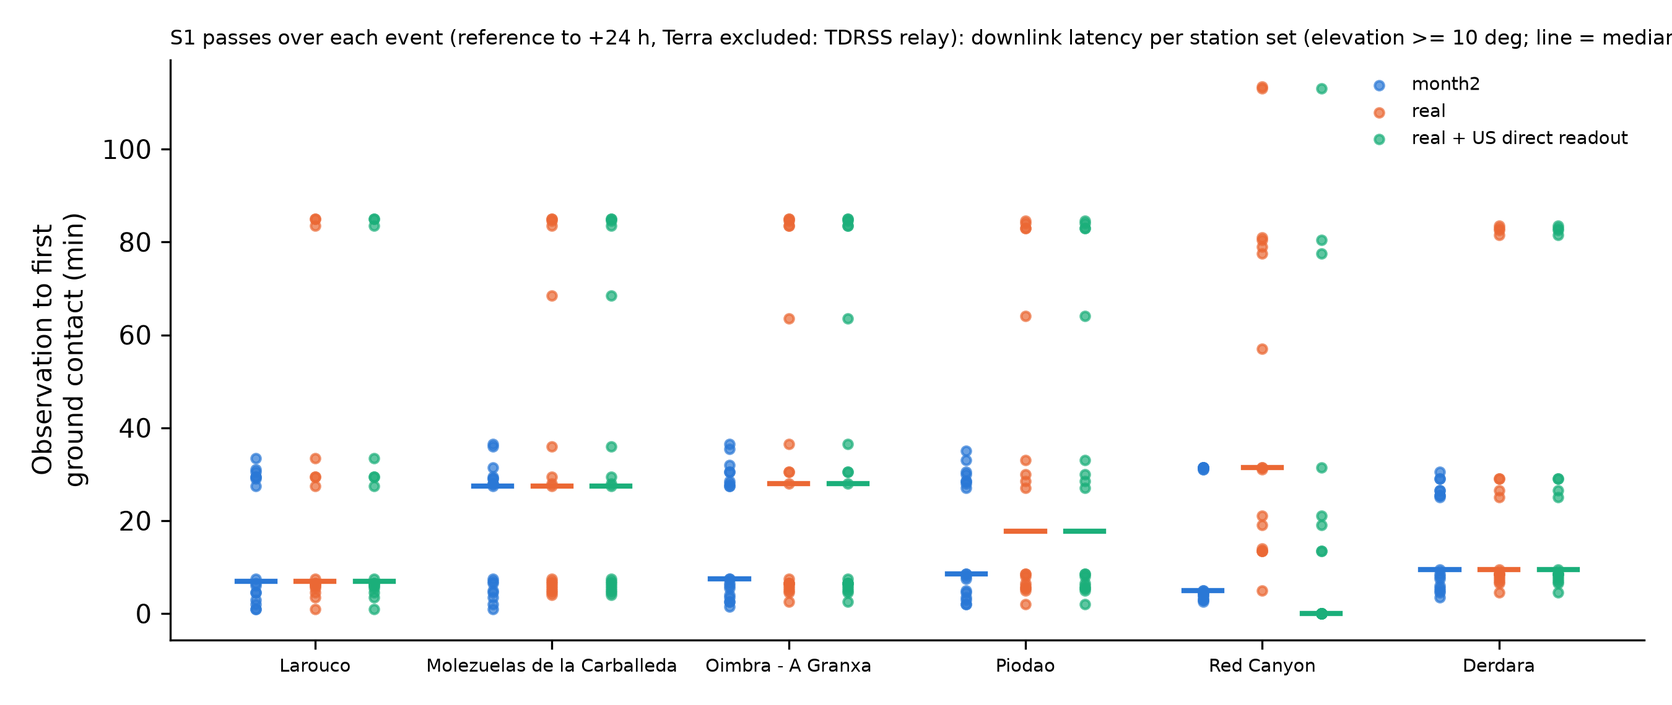
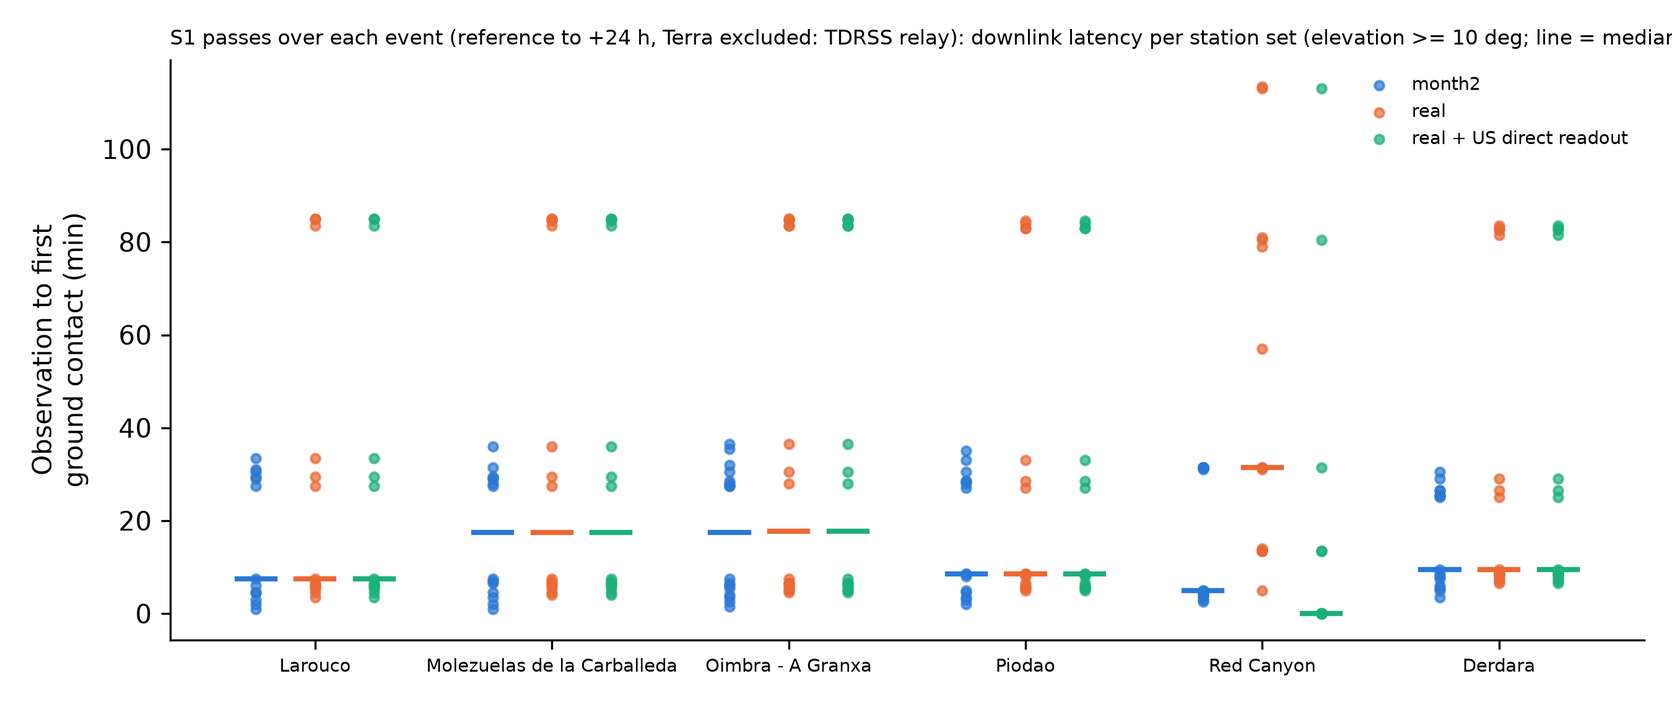
Restrict S1 to satellites with openly available near-real-time fire data and move FY-3D to S3
- S1 now contains only the satellites whose global fire product was openly
  available in near real time during the events (Suomi NPP, NOAA-20/21,
  Terra, Aqua, Sentinel-3A/B), so S1 against S0 shows how fast the fire
  could have been detected with open data. S1 has 7 satellites, S3 has 15.
- FY-3D moved to the S3 rows of the census table: its fire product needs an
  NSMC account and is not open in near real time. S3 notes its afternoon
  pass at about 15:10.
- Baseline ground-segment table without FY-3D; median wait to first contact
  with the real segments is now 25 min.
- Remove the FY-3D open question.
- Next steps: add the Sentinel-3 SL_2_FRP fire product to S0 for the six
  events, since Sentinel-3A/B are in S1 but not yet in the public record.
- Regenerate the overpass-time figure with FY-3D in S3.

diff --git a/artifacts/progress-deck/slides/events.html b/artifacts/progress-deck/slides/events.html
@@ -1,20 +1,20 @@
-<section id="events" data-transition="fade" style="display:flex; flex-direction:column; gap:32px; padding:128px; background:#f4f1ea; font-family:'IBM Plex Sans', Arial, sans-serif; color:#1c2430">
-  <div style="display:flex; flex-direction:column; gap:12px">
-    <h2 style="font-size:56px; font-weight:600; line-height:1.1">Six events, chosen by burned area</h2>
-    <p style="font-size:24px; color:#5b6573">Rule: largest official final area; T0 reference = official ignition hour, otherwise the first GEO detection.</p>
+<section id="events" data-transition="fade" style="background:#f4f1ea">
+  <div id="p15689ca52f4er0-8f52a8a3" style="position:absolute; top:128px; left:128px; width:1664px; height:108px; display:flex; flex-direction:column; gap:12px">
+    <h2 style="font-family:'IBM Plex Sans', Arial, sans-serif; font-size:56px; font-weight:600; line-height:1.1; color:#1c2430">Six events, chosen by burned area</h2>
+    <p style="font-family:'IBM Plex Sans', Arial, sans-serif; font-size:24px; color:#5b6573">Rule: largest official final area; T0 reference = official ignition hour, otherwise the first GEO detection.</p>
   </div>
-  <div style="display:flex; flex-direction:row; gap:40px">
-    <table style="width:980px; font-size:24px; color:#1c2430; background:#fbfaf6">
-      <tr style="background:#16263d"><th style="width:36%; color:#f4f1ea">Event</th><th style="width:30%; color:#f4f1ea">Reference (UTC)</th><th style="width:16%; color:#f4f1ea">Area (ha)</th><th style="width:18%; color:#f4f1ea">First FIRMS</th></tr>
-      <tr><td>Pi&#243;d&#227;o (PT)</td><td>13 Aug 04:08 (press)</td><td>65,417</td><td>+6.5 h</td></tr>
+  <div id="p15689ca52f4er1-8f52a8a3" style="position:absolute; top:267px; left:128px; width:1664px; height:434px; display:flex; flex-direction:row; gap:40px">
+    <table style="width:980px; font-family:'IBM Plex Sans', Arial, sans-serif; font-size:24px; color:#1c2430; background:#fbfaf6">
+      <tr style="background:#16263d"><th style="width:36%; color:#f4f1ea">Event</th><th style="width:30%; color:#f4f1ea">Reference (UTC)</th><th style="width:16%; color:#f4f1ea">Burned Area (ha)</th><th style="width:18%; color:#f4f1ea">First FIRMS</th></tr>
+      <tr><td>Piódão (PT)</td><td>13 Aug 04:08 (press)</td><td>65,417</td><td>+6.5 h</td></tr>
       <tr><td>Larouco (ES)</td><td>13 Aug 16:55</td><td>37,765</td><td>+4.8 h</td></tr>
       <tr><td>Molezuelas (ES)</td><td>10 Aug 12:25</td><td>24,426</td><td>+0.1 h</td></tr>
-      <tr><td>O&#237;mbra (ES)</td><td>12 Aug 12:39</td><td>22,414</td><td>+2.3 h</td></tr>
+      <tr><td>Oímbra (ES)</td><td>12 Aug 12:39</td><td>22,414</td><td>+2.3 h</td></tr>
       <tr><td>Red Canyon (US)</td><td>14 Aug 00:09 (discovery)</td><td>50,468</td><td>+4.2 h</td></tr>
-      <tr><td>Derdara (MA)</td><td>12 Aug (date only)</td><td>&#8776; 500</td><td>+0.2 h</td></tr>
+      <tr><td>Derdara (MA)</td><td>12 Aug (date only)</td><td>≈ 500</td><td>+0.2 h</td></tr>
     </table>
-    <img src="/_blob/448d9e65b74f6ca65338948dd7e03262" alt="World map of fire complexes first detected 9 to 15 August 2025, with the selected events" style="width:644px; height:328px; object-fit:contain; background:#fbfaf6; border-radius:12px">
+    <img src="/_blob/448d9e65b74f6ca65338948dd7e03262" alt="World map of fire complexes first detected 9 to 15 August 2025, with the selected events" style="width:644px; height:328px; background:#fbfaf6; border-radius:12px; object-fit:contain">
   </div>
-  <p style="font-size:24px; color:#5b6573">Excluded: southern hemisphere (austral winter: clearing and prescribed burns); Asia (volcano and gas flares only).</p>
-  <aside>Global FIRMS screen of 8 to 15 August 2025 with five criteria: vegetation fire, onset inside the window, at least 500 ha in FIRMS, spreading fire, northern hemisphere (Asia: Siberia and Far East). Candidates are ranked by official final area, as the two Spanish events were in Month 2; FIRMS area cannot rank them because it misses burning after 15 August. Pi&#243;d&#227;o and Derdara have no official ignition hour, so their T0 reference is the first SEVIRI detection. First FIRMS is the first detection after the reference time. Sources: EGIF, Castilla y Le&#243;n open data, Xunta de Galicia, ICNF, NIFC WFIGS, press for Derdara.</aside>
+  <p id="p15689ca52f4er2-8f52a8a3" style="position:absolute; top:732px; left:128px; width:1664px; font-family:'IBM Plex Sans', Arial, sans-serif; font-size:24px; color:#5b6573">Excluded: southern hemisphere (austral winter: clearing and prescribed burns); Asia (volcano and gas flares only).</p>
+  <aside>Global FIRMS screen of 8 to 15 August 2025 with five criteria: vegetation fire, onset inside the window, at least 500 ha in FIRMS, spreading fire, northern hemisphere (Asia: Siberia and Far East). Candidates are ranked by official final area, as the two Spanish events were in Month 2; FIRMS area cannot rank them because it misses burning after 15 August. Piódão and Derdara have no official ignition hour, so their T0 reference is the first SEVIRI detection. First FIRMS is the first detection after the reference time. Sources: EGIF, Castilla y León open data, Xunta de Galicia, ICNF, NIFC WFIGS, press for Derdara.</aside>
 </section>

diff --git a/artifacts/progress-deck/slides/scenarios.html b/artifacts/progress-deck/slides/scenarios.html
@@ -5,10 +5,10 @@
   </div>
   <table style="font-family:'IBM Plex Sans', Arial, sans-serif; font-size:24px; color:#1c2430; background:#fbfaf6">
     <tr style="background:#16263d"><th style="width:22%; color:#f4f1ea">Scenario</th><th style="width:34%; color:#f4f1ea">Setup</th><th style="width:44%; color:#f4f1ea">Question it answers</th></tr>
-    <tr><td>S0 · Public record</td><td>FIRMS, LSA SAF, EFFIS of the real fires</td><td>How fast was the fire actually detected?</td></tr>
-    <tr><td>S1 · Ground decides</td><td>EO layer (8) + real ground segment</td><td>Does the model reproduce reality (S1 vs S0)?</td></tr>
+    <tr><td>S0 · Public record</td><td>FIRMS, LSA SAF, EFFIS of the real fires</td><td>How fast could the fire have been detected with public data?</td></tr>
+    <tr><td>S1 · Ground decides</td><td>EO layer (7) + real ground segment</td><td>Does the model reproduce reality (S1 vs S0)?</td></tr>
     <tr style="background:#e6efee"><td>S2 · Orbit decides</td><td>S1 + Walker 600/20, central nodes swept</td><td>How many central nodes, and where? (main result)</td></tr>
-    <tr><td>S3 · Public extension</td><td>S2 + extended public layer (14)</td><td>What do all other public sensors add; does the optimum hold?</td></tr>
+    <tr><td>S3 · Public extension</td><td>S2 + extended public layer (15)</td><td>What do all other public sensors add; does the optimum hold?</td></tr>
     <tr style="background:#f1eaf8"><td>S4 · Commercial</td><td>S3 + commercial layer (3)</td><td>What do private satellites add on top?</td></tr>
   </table>
   <div style="display:flex; flex-direction:row; gap:16px">
@@ -16,5 +16,5 @@
     <p style="flex:1; padding:20px 24px; font-family:'IBM Plex Sans', Arial, sans-serif; font-size:24px; color:#f4f1ea; background:#16263d; border-radius:12px"><b>S2 vs S1</b> Value of central nodes</p>
     <p style="flex:1; padding:20px 24px; font-family:'IBM Plex Sans', Arial, sans-serif; font-size:24px; color:#f4f1ea; background:#16263d; border-radius:12px"><b>S3, S4 vs S2</b> Does the answer survive?</p>
   </div>
-  <aside>S0 is not simulated: it is the timing of the public records. S1 uses only satellites with a global public fire product, so S1 against S0 is a clean validation. S2 is the main sweep. The extended public layer (S3) is simulated without validation, with a conservative detectability filter written before running, so any gain it shows is a lower bound; S3 then checks only the S2 optimum and nearby setups, not a full new sweep. S4 is the former S3, the commercial layer. One fixed ground-station set is used in all scenarios.</aside>
+  <aside>S0 is not simulated: it is the timing of the public records. S1 uses only the satellites whose fire data were openly available in near real time, the ones behind the public record, so S1 against S0 is a clean validation. S2 is the main sweep. The extended public layer (S3) is simulated without validation, with a conservative detectability filter written before running, so any gain it shows is a lower bound; S3 then checks only the S2 optimum and nearby setups, not a full new sweep. S4 is the former S3, the commercial layer. One fixed ground-station set is used in all scenarios.</aside>
 </section>

diff --git a/artifacts/progress-deck/slides/eolayer.html b/artifacts/progress-deck/slides/eolayer.html
@@ -5,11 +5,11 @@
   </div>
   <table style="font-size:24px; color:#1c2430; background:#fbfaf6">
     <tr style="background:#16263d"><th style="width:22%; color:#f4f1ea">Layer</th><th style="width:52%; color:#f4f1ea">Satellites (sensor)</th><th style="width:26%; color:#f4f1ea">Validated against S0</th></tr>
-    <tr style="background:#e6efee"><td><b>S1 EO layer</b> (8)</td><td>Suomi NPP, NOAA-20/21 (VIIRS); Terra, Aqua (MODIS); Sentinel-3A/B (SLSTR); FY-3D (MERSI-II)</td><td style="color:#1f6f6b">Yes: global public fire product</td></tr>
-    <tr><td><b>S3 extended public</b> (14)</td><td>FY-3E/3F, Metop-B/C, Meteor-M 2-3/2-4, Kanopus-V-IK, HJ-2A/B (thermal); Landsat 8/9, Sentinel-2A/B/C (high-res SWIR)</td><td style="color:#a8431a">No: simulated only</td></tr>
+    <tr style="background:#e6efee"><td><b>S1 EO layer</b> (7)</td><td>Suomi NPP, NOAA-20/21 (VIIRS); Terra, Aqua (MODIS); Sentinel-3A/B (SLSTR)</td><td style="color:#1f6f6b">Yes: open near-real-time fire data</td></tr>
+    <tr><td><b>S3 extended public</b> (15)</td><td>FY-3D/3E/3F, Metop-B/C, Meteor-M 2-3/2-4, Kanopus-V-IK, HJ-2A/B (thermal); Landsat 8/9, Sentinel-2A/B/C (high-res SWIR)</td><td style="color:#a8431a">No: simulated only</td></tr>
     <tr style="background:#f1eaf8"><td><b>S4 commercial</b> (3)</td><td>OroraTech FOREST-2, FOREST-3; FireSat protoflight</td><td style="color:#a8431a">No public data</td></tr>
     <tr style="background:#ebe8e1"><td>GEO / HEO (15)</td><td>GOES-18/19, Himawari-9, Meteosat-9 to 12, GK-2A, FY-4A/B, INSAT-3DR/3DS, Elektro-L, Arktika-M</td><td style="color:#5b6573">Census only: S0 alert, T0 reference</td></tr>
   </table>
   <p style="font-size:24px; color:#5b6573">Excluded: no MWIR band (CBERS-4, ECOSTRESS, LWIR-only constellr and Hydrosat); not operational (NOAA-15/18/19, Meteor-M 2-2); commissioning (8 OroraTech OTC-P1).</p>
-  <aside>Public means government or intergovernmental mission; private satellites form the commercial layer. Fire-capable means a MWIR fire band, or high-resolution SWIR with an active-fire method. A public fire product only decides validation, not membership: S1 keeps the satellites that can be checked against the public record, so S1 against S0 stays clean. FY-3D joins S1 because a public global fire product exists; its August 2025 data need an NSMC account (requested). Data access differs: open for Landsat, Sentinel-2 and Metop; registration for FY-3; restricted for HJ-2 and Kanopus-V-IK.</aside>
+  <aside>Public means government or intergovernmental mission; private satellites form the commercial layer. Fire-capable means a MWIR fire band, or high-resolution SWIR with an active-fire method. S1 keeps only the satellites whose fire data were openly available in near real time during the events (FIRMS, Copernicus SL_2_FRP): the satellites behind the public record, so S1 against S0 shows how fast the fire could have been detected with open data. FY-3D has a global fire product, but it needs an NSMC account and is not open in near real time, so it is in S3. Data access differs: open for Landsat, Sentinel-2 and Metop; registration for FY-3; restricted for HJ-2 and Kanopus-V-IK.</aside>
 </section>

diff --git a/artifacts/progress-deck/slides/groundseg.html b/artifacts/progress-deck/slides/groundseg.html
@@ -9,14 +9,13 @@
       <tr><td>Suomi NPP, Sentinel-3A/B</td><td>Svalbard only</td></tr>
       <tr><td>NOAA-20, NOAA-21</td><td>Svalbard, McMurdo (Troll backup)</td></tr>
       <tr><td>Aqua</td><td>Svalbard, Poker Flat</td></tr>
-      <tr><td>FY-3D</td><td>Beijing, Guangzhou, Urumqi, Jiamusi, Kiruna</td></tr>
       <tr><td>Terra</td><td>TDRSS relay (not modelled)</td></tr>
       <tr style="background:#e6efee"><td>US direct readout</td><td>Madison, Hampton, Mayaguez: Red Canyon only</td></tr>
     </table>
     <div style="display:flex; flex-direction:column; gap:16px; flex:1">
       <div style="display:flex; flex-direction:column; gap:4px; padding:24px; background:#fbfaf6; border:2px solid #d9d3c7; border-radius:16px">
         <p style="font-size:24px; color:#5b6573">Median wait to first contact</p>
-        <p style="font-size:56px; font-weight:600; color:#1f6f6b">8 &#8594; 26 min</p>
+        <p style="font-size:56px; font-weight:600; color:#1f6f6b">8 &#8594; 25 min</p>
         <p style="font-size:24px; color:#5b6573">Month 2 set &#8594; real segments</p>
       </div>
       <div style="display:flex; flex-direction:column; gap:4px; padding:24px; background:#fbfaf6; border:2px solid #d9d3c7; border-radius:16px">
@@ -26,5 +25,5 @@
     </div>
   </div>
   <p style="font-size:24px; color:#5b6573">One fixed set for all scenarios, applied in post-processing. Product latency (under 3 h) not modelled.</p>
-  <aside>Every S1 pass over the six events from the reference time to +24 h, elevation mask 10 degrees, Terra excluded because its downlink goes through the TDRSS relays. The Month 2 set was optimistic: Suomi NPP and Sentinel-3 downlink only at Svalbard and often wait a full orbit. US direct-readout stations, which feed the FIRMS ultra-real-time product, receive Red Canyon passes while the satellite still sees the fire; no such fire path exists for Europe or Morocco. A slower, realistic baseline avoids overstating the gain of the central nodes in S2. Sources: NOAA OSPO notices, ESA Sentinel-3 data flow, NASA Aqua interface document, NSMC, NASA Earthdata FIRMS URT.</aside>
+  <aside>Every S1 pass over the six events from the reference time to +24 h, elevation mask 10 degrees, Terra excluded because its downlink goes through the TDRSS relays. The Month 2 set was optimistic: Suomi NPP and Sentinel-3 downlink only at Svalbard and often wait a full orbit. US direct-readout stations, which feed the FIRMS ultra-real-time product, receive Red Canyon passes while the satellite still sees the fire; no such fire path exists for Europe or Morocco. A slower, realistic baseline avoids overstating the gain of the central nodes in S2. Sources: NOAA OSPO notices, ESA Sentinel-3 data flow, NASA Aqua interface document, NASA Earthdata FIRMS URT.</aside>
 </section>

diff --git a/artifacts/progress-deck/slides/alertpaths.html b/artifacts/progress-deck/slides/alertpaths.html
@@ -67,7 +67,7 @@
       <div style="display:flex; flex-direction:row; gap:10px; align-items:center"><hr style="width:44px; border-top:4px dotted #8d6e63"><p style="font-size:24px">Commercial to central node (assumed)</p></div>
       <div style="display:flex; flex-direction:row; gap:10px; align-items:center"><hr style="width:44px; border-top:4px dashed #8a929c"><p style="font-size:24px">Not modeled</p></div>
     </div>
-    <p style="font-size:24px; line-height:1.3; color:#5b6573"><b style="color:#8a6a14">Public data on the real event:</b> FIRMS (T0 of A) · LSA SAF / GOES (T0 of B) · official ignition and area · SLSTR FRP and FY-3D (planned). No public record for path C.</p>
+    <p style="font-size:24px; line-height:1.3; color:#5b6573"><b style="color:#8a6a14">Public data on the real event:</b> FIRMS (T0 of A) · LSA SAF / GOES (T0 of B) · official ignition and area · SLSTR FRP (to add). No public record for path C.</p>
   </div>
   <aside>S0 and S1 are the centralized cases: the ground decides. Path B: a geostationary imager (SEVIRI for Europe and Morocco, GOES for Red Canyon) sees the fire every 10 to 15 minutes; it is not modeled, and its alert reaches the ground segment, with timing from the public products. Path A: a public sensing satellite (EO layer, and from S3 the extended public layer) sees the fire. In S1 the alert goes down with its data to the ground segment. From S2 on it goes by an assumed RF crosslink straight to a central node, only when one is in view; the central node decides and distributes the next tasks, and the alert reaches the ground through any coordination satellite with a station in view. The sensor downlink keeps carrying raw data only. Path C, from S4: a commercial satellite such as OroraTech FOREST follows the same rule; the medium of that link is still open. All paths end at T0, the moment the alert is in the network. Commercial detection data are not public, so path C has no public-record reference.</aside>
 </section>

diff --git a/artifacts/progress-deck/slides/scenario3.html b/artifacts/progress-deck/slides/scenario3.html
@@ -4,7 +4,7 @@
     <p style="font-family:'IBM Plex Sans', Arial, sans-serif; font-size:24px; color:#5b6573">Each scenario adds one layer on top of the previous one; nothing in place changes.</p>
   </div>
   <table style="font-family:'IBM Plex Sans', Arial, sans-serif; font-size:28px; color:#1c2430; background:#fbfaf6">
-    <tr style="background:#16263d"><th style="width:12%; color:#f4f1ea"></th><th style="width:22%; color:#f4f1ea">EO layer (8)</th><th style="width:22%; color:#f4f1ea">Coordination</th><th style="width:22%; color:#f4f1ea">Extended public (14)</th><th style="width:22%; color:#f4f1ea">Commercial (3)</th></tr>
+    <tr style="background:#16263d"><th style="width:12%; color:#f4f1ea"></th><th style="width:22%; color:#f4f1ea">EO layer (7)</th><th style="width:22%; color:#f4f1ea">Coordination</th><th style="width:22%; color:#f4f1ea">Extended public (15)</th><th style="width:22%; color:#f4f1ea">Commercial (3)</th></tr>
     <tr><td>S1</td><td style="color:#1f6f6b">Yes</td><td style="color:#8a929c">No</td><td style="color:#8a929c">No</td><td style="color:#8a929c">No</td></tr>
     <tr><td>S2</td><td style="color:#5b6573">Same</td><td style="color:#1f6f6b">Added</td><td style="color:#8a929c">No</td><td style="color:#8a929c">No</td></tr>
     <tr style="background:#fbeee6"><td>S3</td><td style="color:#5b6573">Same</td><td style="color:#5b6573">Same</td><td style="color:#a8431a">Added</td><td style="color:#8a929c">No</td></tr>

diff --git a/artifacts/progress-deck/slides/gaps.html b/artifacts/progress-deck/slides/gaps.html
@@ -15,7 +15,7 @@
         <p style="font-size:24px; line-height:1.3">Early-morning orbit, about 05:40 and 17:40. Metop adds night passes only; HJ-2 and Kanopus add resolution.</p>
       </div>
     </div>
-    <img src="/_blob/e5bdbcb66fd29446f9b642818e5e80dd" alt="Local solar time of the equator crossings of the fire-capable LEO satellites, by layer" style="width:676px; height:684px; object-fit:contain; background:#fbfaf6; border-radius:12px">
+    <img src="/_blob/214ecab3164db87e04480897dc9a90bb" alt="Local solar time of the equator crossings of the fire-capable LEO satellites, by layer" style="width:676px; height:684px; object-fit:contain; background:#fbfaf6; border-radius:12px">
   </div>
   <aside>Sun-synchronous satellites pass every place at about the same local time each day. The figure shows the equator-crossing local time of every LEO satellite of the three sensing layers, computed from its 13 August 2025 orbit. Within the thermal band class the new satellites give the same information as VIIRS and MODIS; their value is when they observe. Terra and Aqua have drifted from 10:30 and 13:30 to about 09:20 and 14:50. Next step: the gain in time to first detection per event and satellite, with swath and detection limit.</aside>
 </section>

diff --git a/artifacts/progress-deck/slides/nextsteps.html b/artifacts/progress-deck/slides/nextsteps.html
@@ -6,7 +6,7 @@
       <ol style="font-size:24px; line-height:1.4">
         <li>Gain in time to first detection per satellite and event</li>
         <li>Freeze layers and ground stations</li>
-        <li>FY-3D fire product into S0 (NSMC account requested)</li>
+        <li>Sentinel-3 SL_2_FRP into S0 for the six events</li>
         <li>New events through the public-record pipeline</li>
         <li>Run S1, then S2 with the Walker 600/20</li>
       </ol>
@@ -21,5 +21,5 @@
       </ul>
     </div>
   </div>
-  <aside>The design freeze comes first, so S1 and S2 run on a design that no longer changes. The detection gain per satellite combines when each satellite passes with whether its sensor could detect the fire. FY-3D stays in S1 while the NSMC data account is pending; if access is refused it moves to S3.</aside>
+  <aside>The design freeze comes first, so S1 and S2 run on a design that no longer changes. The detection gain per satellite combines when each satellite passes with whether its sensor could detect the fire. Sentinel-3A/B are in S1 but not yet in the public record S0, so their SL_2_FRP product must be added. FY-3D moved to S3 because its fire product is not openly available in near real time.</aside>
 </section>

diff --git a/artifacts/progress-deck/slides/progress.html b/artifacts/progress-deck/slides/progress.html
@@ -5,7 +5,7 @@
   </div>
   <table style="font-size:24px; color:#1c2430; background:#fbfaf6">
     <tr style="background:#16263d"><th style="width:34%; color:#f4f1ea">Action item</th><th style="width:50%; color:#f4f1ea">Result</th><th style="width:16%; color:#f4f1ea">Status</th></tr>
-    <tr><td>Public fire satellites</td><td>Census of all objects in orbit, 8 to 16 Aug 2025 (Space-Track); 22 public LEO, 15 GEO/HEO</td><td style="color:#1f6f6b">Done</td></tr>
+    <tr><td>Public fire satellites</td><td>Census of all objects in orbit, 8 to 16 Aug 2025 (Space-Track); 22 public LEO (7 in S1), 15 GEO/HEO</td><td style="color:#1f6f6b">Done</td></tr>
     <tr><td>Private fire satellites</td><td>3 operational: OroraTech FOREST-2/3, FireSat protoflight</td><td style="color:#1f6f6b">Done</td></tr>
     <tr><td>Sensor differences</td><td>Same information within a band class; timing and resolution differ</td><td style="color:#1f6f6b">Done</td></tr>
     <tr><td>Events per continent</td><td>4 new: Pi&#243;d&#227;o, O&#237;mbra, Red Canyon, Derdara; none eligible in Asia or south of the equator</td><td style="color:#1f6f6b">Done</td></tr>

diff --git a/artifacts/progress-deck/slides/architecture.html b/artifacts/progress-deck/slides/architecture.html
@@ -13,7 +13,7 @@
       <p style="font-size:24px; line-height:1.3">Relays link to one CN; CNs interlink (OISL or RF). All downlink</p>
     </div>
     <div style="position:absolute; left:1130px; top:212px; width:534px; height:120px; display:flex; flex-direction:column; justify-content:center; gap:2px; padding:10px 14px; background:#fbfaf6; border:3px solid #2457a6; border-radius:12px">
-      <p style="font-size:24px; font-weight:600; color:#2457a6">EO layer S1 (8) + public S3 (14)</p>
+      <p style="font-size:24px; font-weight:600; color:#2457a6">EO layer S1 (7) + public S3 (15)</p>
       <p style="font-size:24px; line-height:1.3">RF only: downlink, or crosslink to a central node in view</p>
     </div>
     <div style="position:absolute; left:1130px; top:348px; width:534px; height:120px; display:flex; flex-direction:column; justify-content:center; gap:2px; padding:10px 14px; background:#fbfaf6; border:3px solid #7b4fb3; border-radius:12px">

diff --git a/Month3.tex b/Month3.tex
@@ -97,14 +97,14 @@ The scenarios are cumulative: each one adds a single layer on top of the previou
 \midrule
 \endhead
 S0, public record & FIRMS, LSA SAF and EFFIS of the real fires & How fast was the fire actually detected? \\
-S1, ground decides & EO layer (8 satellites) and the real ground segment & Does the model reproduce reality (S1 against S0)? \\
+S1, ground decides & EO layer (7 satellites) and the real ground segment & How fast could the fire have been detected with openly available data? Does the model reproduce reality (S1 against S0)? \\
 S2, orbit decides & S1 plus the coordination layer; central nodes swept & How many central nodes, and where, give the largest gain? (main result) \\
-S3, public extension & S2 plus the extended public layer (14 satellites) & What do the other public sensors add, and does the S2 optimum still hold? \\
+S3, public extension & S2 plus the extended public layer (15 satellites) & What do the other public sensors add, and does the S2 optimum still hold? \\
 S4, commercial & S3 plus the commercial layer (3 satellites) & What do private satellites add on top? \\
 \bottomrule
 \end{longtable}
 
-S1 contains only satellites with a global public fire product, so S1 against S0 is a clean validation. The S3 and S4 satellites are simulated without validation; for them a conservative detectability filter is written before running, so any gain they show is a lower bound.
+S1 contains only the satellites whose fire data were openly available in near real time during the events (FIRMS, Copernicus SL\_2\_FRP), i.e.\ the satellites behind the public record. S1 against S0 is therefore a clean validation. The S3 and S4 satellites are simulated without validation; for them a conservative detectability filter is written before running, so any gain they show is a lower bound.
 
 \subsection{Link rules}
 
@@ -158,7 +158,6 @@ In Month 2 every satellite could use all five polar stations. In reality each sa
 Suomi NPP, Sentinel-3A/B & Svalbard only \\
 NOAA-20, NOAA-21 & Svalbard and McMurdo (Troll as backup) \\
 Aqua & Svalbard and Poker Flat \\
-FY-3D & Beijing, Guangzhou, Urumqi, Jiamusi (CMA) and Kiruna \\
 Terra & TDRSS relay satellites (not representable with direct-view stations) \\
 US direct readout & Madison, Hampton, Mayaguez: receive passes over the United States in real time \\
 \bottomrule
@@ -167,7 +166,7 @@ US direct readout & Madison, Hampton, Mayaguez: receive passes over the United S
 For every S1 pass over the six events, the time from the observation to the first ground contact was computed with both station sets (10$^\circ$ elevation mask, Terra excluded):
 \begin{itemize}[leftmargin=1.2cm]
     \item Month 2 set: median 8\,min, maximum 37\,min.
-    \item Real ground segments: median 26\,min, maximum 114\,min. Suomi NPP and Sentinel-3 often wait a full orbit for Svalbard.
+    \item Real ground segments: median 25\,min, maximum 114\,min. Suomi NPP and Sentinel-3 often wait a full orbit for Svalbard.
     \item With the US direct-readout stations, Red Canyon passes are received while the satellite still sees the fire (median 0\,min). No such fire path exists for Europe or Morocco.
 \end{itemize}
 
@@ -187,7 +186,7 @@ The rules are:
 \begin{itemize}[leftmargin=1.2cm]
     \item \textbf{Fire-capable:} a MWIR fire band, or a high-resolution SWIR band with a documented active-fire method. Imagers with LWIR only do not count.
     \item \textbf{Operational} on 8 to 16 August 2025.
-    \item \textbf{S1 EO layer:} public (government or intergovernmental) satellites with a global public fire product, so that they can be validated against S0.
+    \item \textbf{S1 EO layer:} public (government or intergovernmental) satellites whose global fire product was openly available in near real time during the events. These are the satellites behind the public record, so S1 can be validated against S0.
     \item \textbf{S3 extended public layer:} all other public satellites.
     \item \textbf{S4 commercial layer:} private satellites.
     \item \textbf{GEO and HEO imagers:} census only. They give the S0 alert and, where no official ignition hour exists, the T0 reference, but they are not part of the network.
@@ -201,12 +200,12 @@ The rules are:
 \textbf{Satellites} & \textbf{Owner} & \textbf{Sensor} & \textbf{Data access} & \textbf{Validation vs.\ S0} \\
 \midrule
 \endhead
-\multicolumn{5}{l}{\textit{S1 EO layer (8): validated against S0}} \\
+\multicolumn{5}{l}{\textit{S1 EO layer (7): validated against S0}} \\
 Suomi NPP, NOAA-20, NOAA-21 & NASA / NOAA & VIIRS & open & FIRMS~\cite{schroeder2014viirs} \\
 Terra, Aqua & NASA & MODIS & open & FIRMS~\cite{giglio2016modis} \\
 Sentinel-3A/B & ESA / EUMETSAT & SLSTR & open & SL\_2\_FRP~\cite{xu2020slstr} \\
-FY-3D & CMA (China) & MERSI-II & registration & FY-3D fire product~\cite{chen2022fy3d} \\
-\multicolumn{5}{l}{\textit{S3 extended public layer (14): simulated, not validated}} \\
+\multicolumn{5}{l}{\textit{S3 extended public layer (15): simulated, not validated}} \\
+FY-3D & CMA (China) & MERSI-II & account & product exists~\cite{chen2022fy3d}, not open in near real time \\
 FY-3E, FY-3F & CMA (China) & MERSI-LL, MERSI-III & registration & none \\
 Metop-B/C & EUMETSAT & AVHRR/3 & open & none \\
 Meteor-M 2-3, 2-4 & Roshydromet (Russia) & MSU-MR & direct broadcast & none \\
@@ -236,6 +235,7 @@ Within the thermal band class, the S3 satellites give the same information as VI
 The S1 layer passes in four clusters, at about 01--03, 09--10, 13--15 and 21--22 local solar time. This leaves two daily gaps, 15--21\,h and 03--09\,h. The FIRMS first detections of Larouco (+4.8\,h), Red Canyon (+4.2\,h) and Pi\'od\~ao (+6.5\,h) are explained by these gaps: all three fires ignited inside one.
 
 \begin{itemize}[leftmargin=1.2cm]
+    \item \textbf{FY-3D} adds an afternoon pass at about 15:10, just after the VIIRS and Aqua cluster.
     \item \textbf{FY-3E} is the only satellite in an early-morning orbit (about 05:40 and 17:40), so it passes inside both gaps.
     \item \textbf{Metop-B/C} add only night passes for fire, since their 3.7\,$\mu$m channel works at night only.
     \item \textbf{HJ-2A/B} (96\,m) and \textbf{Kanopus-V-IK} (200\,m) add resolution, i.e.\ smaller fires and the front shape, but have narrow swaths or restricted data.
@@ -525,7 +525,6 @@ S2 asks how many central nodes there are and which coordination satellites they 
 \begin{itemize}[leftmargin=1.2cm]
     \item \openquestion{Walker pattern, inclination, altitude and phasing of the coordination layer.}
     \item \openquestion{Asia has no eligible wildfire in the window: keep three continents, or relax a criterion (e.g.\ onset before 9 August) for Asia only?}
-    \item \openquestion{FY-3D fire data for August 2025 need an NSMC account (requested). If access is refused, FY-3D moves from S1 to S3.}
 \end{itemize}
 
 % =========================================================
@@ -534,7 +533,8 @@ S2 asks how many central nodes there are and which coordination satellites they 
 
 \begin{itemize}[leftmargin=1.2cm]
     \item \actionitem{Quantify the time-to-first-detection gain of each S3 and S4 satellite per event (swath and detection limit).}
-    \item \actionitem{Freeze the layers and choose the ground stations: use the real ground segment of each satellite plus the US direct-readout stations; add the FY-3D fire product to S0 (needs an NSMC data account), since FY-3D is now in S1.}
+    \item \actionitem{Freeze the layers and the ground stations: the real ground segment of each S1 satellite plus the US direct-readout stations.}
+    \item \actionitem{Add the Sentinel-3 SL\_2\_FRP fire product to S0 for the six events, since Sentinel-3A/B are in S1 but not yet in the public record.}
     \item \actionitem{Add the new events to the registry and run them through the public-record pipeline one at a time: O\'imbra, Pi\'od\~ao, Red Canyon, Derdara.}
     \item \actionitem{Run S1, then S2 with the 600/20 Walker, on the frozen design.}
 \end{itemize}

diff --git a/code/EO Census/scripts/01_fire_analysis.py b/code/EO Census/scripts/01_fire_analysis.py
@@ -8,7 +8,8 @@ Criteria (Strategy v3.1, decisions of 6 Nov 2026):
   B. fire-capable: thermal fire band (MWIR / LWIR) or high-resolution SWIR with an active-fire method
   C. operational in the window (not decommissioned, standby, backup or commissioning)
   D. layer (decisions of 6 Nov 2026; GEO and HEO stay census only, as S0 alert / T0 reference):
-     S1 EO layer:              public LEO mission with a global public active-fire product (validates S1 against S0)
+     S1 EO layer:              public LEO mission whose global active-fire product was openly available in near
+                               real time during the window (the public record S0 is built from these; S1 vs S0)
      S3 extended public layer: every other public LEO mission
      S4 commercial layer:      private LEO mission
   thermal = has a MWIR fire band; LWIR-only sensors are not fire-capable (same rule as ECOSTRESS)
@@ -54,7 +55,7 @@ census["role"] = np.select(
     default="excluded")
 census["validation"] = np.where(public & validated, "yes (global public product)",
                                 np.where(census["D_public_product"] & public,
-                                         "regional only: " + census["product_coverage"].fillna(""), "no public product"))
+                                         "limited: " + census["product_coverage"].fillna(""), "no public product"))
 census.loc[~census["A_in_orbit"], "reason"] = "not in orbit in the window"
 census.loc[census["A_in_orbit"] & ~census["B_fire_capable"], "reason"] = "no MWIR fire band and no high-res SWIR with an active-fire method"
 census.loc[census["A_in_orbit"] & census["B_fire_capable"] & ~census["C_operational"], "reason"] = \
